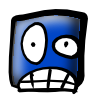
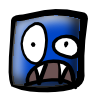
Emotions was realized.

Changed region(s): [[0.15, 0.57, 0.81, 0.96]]

diff --git a/dicewars/src/ru/icl/dicewars/gui/InfoJPanel.java b/dicewars/src/ru/icl/dicewars/gui/InfoJPanel.java
@@ -15,7 +15,7 @@ public class InfoJPanel extends JPanel {
 	private static final int WIDTH = 180;
 	private static final int HEIGHT = 80;
 	
-	private Map<Flag, PlayerJPanel> players = new HashMap<Flag, PlayerJPanel>();
+	private Map<Flag, PlayerJPanel> playerJPanelMap = new HashMap<Flag, PlayerJPanel>();
 	private Flag winner;
 	private int winnerCount;
 	
@@ -25,14 +25,14 @@ public class InfoJPanel extends JPanel {
 	
 	public void initPlayers(FlagDistributedActivity fda) {
 		int yoffset = 10;
-		for (PlayerJPanel playerPanel : players.values()){
+		for (PlayerJPanel playerPanel : playerJPanelMap.values()){
 			this.remove(playerPanel);
 		}
-		players.clear();
+		playerJPanelMap.clear();
 		for (Flag flag : fda.getFlags()) {
 			PlayerJPanel player = new PlayerJPanel(flag, fda.getNameByFlag(flag));
 			player.setBounds(10, yoffset, WIDTH, HEIGHT);
-			players.put(flag, player);
+			playerJPanelMap.put(flag, player);
 			add(player);
 			yoffset += HEIGHT + 10;
 		}
@@ -41,58 +41,70 @@ public class InfoJPanel extends JPanel {
 	}
 	
 	public void updateReserve(Flag flag, int diceCount) {
-		if (players.containsKey(flag)) {
-			players.get(flag).setReserveCount(diceCount);
-			players.get(flag).repaint();
+		if (playerJPanelMap.containsKey(flag)) {
+			playerJPanelMap.get(flag).setReserveCount(diceCount);
+			playerJPanelMap.get(flag).repaint();
 		}
 	}
 
-	public void updateDiceCount(Flag flag, int count) {
-		if (players.containsKey(flag)) {
-			players.get(flag).setDiceOverallCount(count);
+	public void updateDiceCount(Flag flag, int totalDiceCount) {
+		if (playerJPanelMap.containsKey(flag)) {
+			playerJPanelMap.get(flag).setTotalDiceCount(totalDiceCount);
 			if (winner != null) {
 				if (!flag.equals(winner)) {
-					if (count > winnerCount) {
-						winnerCount = count;
+					if (totalDiceCount > winnerCount) {
+						winnerCount = totalDiceCount;
 						changeWinnerTo(winner, flag);
+						for (PlayerJPanel playerJPanel : playerJPanelMap.values()){
+							playerJPanel.setWinnerTotalDiceCount(winnerCount);
+							playerJPanel.repaint();
+						}
 					}	
-				} else if (count > winnerCount) {
-					winnerCount = count;
+				} else if (totalDiceCount > winnerCount) {
+					winnerCount = totalDiceCount;
+					for (PlayerJPanel playerJPanel : playerJPanelMap.values()){
+						playerJPanel.setWinnerTotalDiceCount(winnerCount);
+						playerJPanel.repaint();
+					}
 				} else { // check if another player became a winner
-					winnerCount = count;
+					winnerCount = totalDiceCount;
 					Flag previousWinner = winner;
-					for (PlayerJPanel player : players.values()) {
-						if (!player.getFlag().equals(winner) && player.getDiceOverallCount() > winnerCount) {
+					for (PlayerJPanel player : playerJPanelMap.values()) {
+						if (!player.getFlag().equals(winner) && player.getTotalDiceCount() > winnerCount) {
 							winner = player.getFlag();
-							winnerCount = player.getDiceOverallCount(); 
+							winnerCount = player.getTotalDiceCount(); 
 						}
 					}
 					// winner has been changed
 					if (!previousWinner.equals(winner)) {
 						changeWinnerTo(previousWinner, winner);
+						for (PlayerJPanel playerJPanel : playerJPanelMap.values()){
+							playerJPanel.setWinnerTotalDiceCount(winnerCount);
+							playerJPanel.repaint();
+						}
 					}
 				}
 			} else {
 				winner = flag;
-				winnerCount = count;
-				players.get(flag).setWinner(true);
+				winnerCount = totalDiceCount;
+				playerJPanelMap.get(flag).setWinner(true);
 			}
-			players.get(flag).repaint();
+			playerJPanelMap.get(flag).repaint();
 		}
 	}
 	
 	private void changeWinnerTo(Flag from, Flag to) {
-		players.get(from).setWinner(false);
-		players.get(from).repaint();
-		players.get(to).setWinner(true);
-		players.get(to).repaint();
+		playerJPanelMap.get(from).setWinner(false);
+		playerJPanelMap.get(from).repaint();
+		playerJPanelMap.get(to).setWinner(true);
+		playerJPanelMap.get(to).repaint();
 		winner = to;
 	}
 	
 	public void updateAreaCount(Flag flag, int count) {
-		if (players.containsKey(flag)) {
-			players.get(flag).setAreaCount(count);
-			players.get(flag).repaint();
+		if (playerJPanelMap.containsKey(flag)) {
+			playerJPanelMap.get(flag).setAreaCount(count);
+			playerJPanelMap.get(flag).repaint();
 		}
 	}
 	

diff --git a/dicewars/src/ru/icl/dicewars/gui/PlayerJPanel.java b/dicewars/src/ru/icl/dicewars/gui/PlayerJPanel.java
@@ -18,15 +18,14 @@ public class PlayerJPanel extends JPanel {
 	private Flag flag;
 	private Color color;
 	private String playerName;
-	private int diceOverallCount = 0;
+	private int totalDiceCount = 0;
 
 	private int areaCount = 0;
 	private int reserveCount = 0;
-	private boolean outOfTheGame = false;
+	private int winnerTotalDiceCount = 0;
 	private int rank = 0;
 	private boolean winner = false;
-	
-	
+		
 	private final static int radius = 12; 
 	private final static int alpha = 90; 
 	
@@ -46,16 +45,9 @@ public class PlayerJPanel extends JPanel {
 		
 		g.setColor(Color.black);
 		g.drawString(playerName, 67, 20);
-		g.drawString("Dice count: " + String.valueOf(diceOverallCount), 67, 41);
+		g.drawString("Dice count: " + String.valueOf(totalDiceCount), 67, 41);
 		g.drawString("Dice per turn: " + String.valueOf(areaCount), 67, 55);
 		g.drawString("Reserve: " + String.valueOf(reserveCount), 67, 69);
-		
-		if (outOfTheGame) {
-			g.drawString("OUT", 140, 25);
-			if (rank > 0) {
-				g.drawString("Place: " + String.valueOf(rank), 15, 78);
-			}
-		}		
 	}
 	
 	@Override
@@ -65,11 +57,20 @@ public class PlayerJPanel extends JPanel {
 		Image avatar = null;	
 		if (winner) {
 			g.drawImage(ImageManager.getTrophy(), 147, 2, 48, 48, this);
-			avatar = ImageManager.getAvatar(flag, 1);
-		}else{
-			avatar = ImageManager.getAvatar(flag, 2);
+			avatar = ImageManager.getAvatar(flag, Emotion.HAPPY.value());
 		}
-		
+		if (winnerTotalDiceCount * 2 / 3 > totalDiceCount){
+			avatar = ImageManager.getAvatar(flag, Emotion.CALM.value());
+		}
+		if (winnerTotalDiceCount * 1 / 3 > totalDiceCount){
+			avatar = ImageManager.getAvatar(flag, Emotion.SAD.value());
+		}
+		if (totalDiceCount == 0){
+			avatar = ImageManager.getAvatar(flag, Emotion.EVIL.value());
+		}
+		if (avatar == null){
+			avatar = ImageManager.getAvatar(flag, Emotion.SMILING.value());
+		}
 		if (avatar != null) g.drawImage(avatar, radius - 12, radius - 4, 64, 64, this);
 	}
 
@@ -81,35 +82,61 @@ public class PlayerJPanel extends JPanel {
 		return areaCount;
 	}
 	
-	public Color getColor() {
-		return color;
-	}
-	
-	public void setDiceOverallCount(int diceOverallCount) {
-		this.diceOverallCount = diceOverallCount;
-	}
-
 	public void setReserveCount(int reserveCount) {
 		this.reserveCount = reserveCount;
 	}
 	
-	public int getDiceOverallCount() {
-		return diceOverallCount;
+	public int getReserveCount() {
+		return reserveCount;
+	}
+	
+	public int getTotalDiceCount() {
+		return totalDiceCount;
+	}
+	
+	public void setTotalDiceCount(int totalDiceCount) {
+		this.totalDiceCount = totalDiceCount;
 	}
 	
 	public Flag getFlag() {
 		return flag;
 	}
 	
-	public void setOutOfTheGame(boolean outOfTheGame) {
-		this.outOfTheGame = outOfTheGame;
-	}
-	
 	public void setRank(int rank) {
 		this.rank = rank;
 	}
 	
+	public int getRank() {
+		return rank;
+	}
+	
 	public void setWinner(boolean winner) {
 		this.winner = winner;
+	}
+	
+	public boolean isWinner() {
+		return winner;
+	}
+	
+	public void setWinnerTotalDiceCount(int winnerTotalDiceCount) {
+		this.winnerTotalDiceCount = winnerTotalDiceCount;
+	}
+	
+	public int getWinnerTotalDiceCount() {
+		return winnerTotalDiceCount;
+	}
+	
+	private static enum Emotion{
+		HAPPY(1), SMILING(2), CALM(3), SAD(4), EVIL(5);
+		
+		int i;
+		
+		private Emotion(int i){
+			this.i = i;
+		}
+		
+		public int value(){
+			return i;
+		}
 	}
 }
